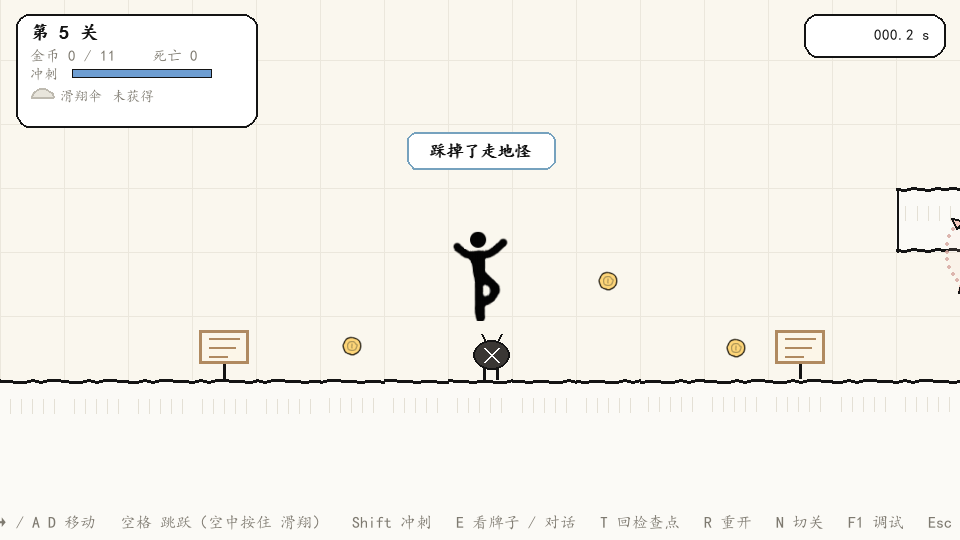
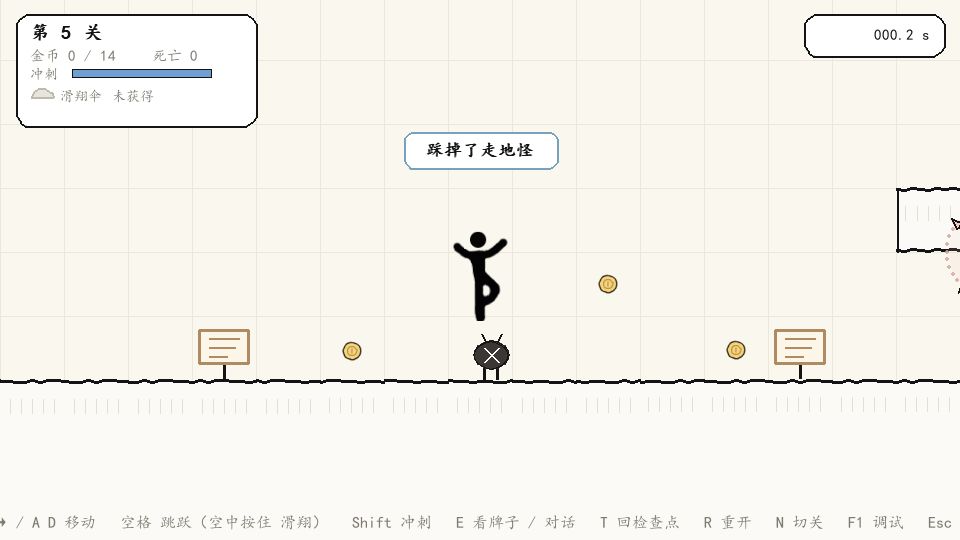
fix(M7.3): 篝火不触发 + 滑翔段改成"跳满再滑"的软引导
1) 篝火点不亮（玩家实测）：检查点列表按地图行序排，水池前那盏在天上第 8 行、
   荡锤前那盏贴地第 10 行，右边那盏索引反而更小；而点亮规则是"只允许往关卡
   后面点亮"（idx > checkpoint_index），于是点亮荡锤前那盏之后，水池前那盏
   永远点不亮。改成按列排序（= 跑到的先后），日志里的"第 N 个篝火"也顺带对了。

2) 滑翔伞从第 7 行抬到第 6 行：判定区底边 448 = 岸面往上 2 格 = 跳满时的头顶。
   原来离岸面只有 64px，点一下跳就捡到，玩家学会了"跳一下"，然后在坑边被水
   吞掉——他根本不知道自己需要跳满。现在伞本身就是那个动作的说明书。

3) 水面金币改软引导：删掉原来"只能松手往下掉才够得到"的那枚，换成一排顺着
   轨迹的金币——起跳点正上方一枚、伞后两枚、对岸落点一枚（11 → 14 枚）。

4) 生成器新增两条硬检查：伞必须挂在"站立够不到、跳满够得到"的区间；水面上的
   金币必须落在滑翔轨迹的身体带里（用真实参数把抛物线 + 滑翔直线算出来比）。

5) 顺手修 load_level 没调 _reset_stats()：换关会带着上一关的死亡定格（开头
   冻 0.35s）和旧检查点，_respawn 甚至会把角色传回上一关的坐标。

自检 280 → 286 项双环境全绿；--smoke-m7 第 4 张改成停在碰到伞之前，另加一张
滑翔中的画面（docs/m7_glide.png）。

diff --git a/tools/gen_l5.py b/tools/gen_l5.py
@@ -108,11 +108,15 @@ def build():
     put(28, 10, "S")          # 告示牌 3：讲荡锤（放在锤子左边）
     put(30, 8, "H")
 
-    # ---- 滑翔段：伞浮在水面上方，跳出去才够得到 ----
+    # ---- 滑翔段：伞吊在"跳满"的那个高度上，而不是贴着水面 ----
     for c in range(57, 62):
         for r in range(9, H):
             put(c, r, "~")
-    put(57, 7, "G")
+    # 伞原来放在第 7 行（判定区底边离岸面 64px），点一下跳就拿到了，
+    # 于是玩家学会了"跳一下"，然后在坑边被水流吞掉——因为他根本不知道自己
+    # 需要跳满。现在抬到第 6 行：判定区底边 = 岸面往上 128px，正好是跳满时的
+    # 头顶位置。想拿伞就必须按住空格跳最高，而这个动作正是滑过水池需要的。
+    put(57, 6, "G")
 
     # ---- 终点与封口 ----
     put(64, 8, "F")
@@ -128,8 +132,15 @@ def build():
     # ---- 金币 ----
     # 14 / 18 列原本是地面金币，现在正好落在走地怪的巡逻线上（会被怪踩过去），
     # 挪到巡逻段两头：玩家要拿就得在那里起跳——那两处是刀片够不到的。
+    #
+    # 滑翔段的金币是"软引导"：起跳点正上方一枚（第 56 列两枚叠成一个向上的
+    # 指示），伞后面顺着下滑轨迹摆两枚，对岸落点一枚。玩家跟着金币走，走的
+    # 就是"跳满 → 一直按住空格滑过去"这条唯一能过水池的路线。
+    # 原来 59 列那枚在水面上方 64px，比滑翔轨迹低一截：想去够只能松开空格
+    # 往下掉，那不是引导，是拿金币骗人跳水。
     for c, r in ((6, 10), (10, 9), (12, 10), (19, 9), (26, 10),
-                 (33, 10), (40, 8), (46, 8), (52, 8), (56, 8), (59, 8)):
+                 (33, 10), (40, 8), (46, 8), (52, 8),
+                 (56, 8), (56, 6), (58, 7), (60, 7), (62, 8)):
         put(c, r, "c")
 
     return grid, floor
@@ -268,27 +279,41 @@ def check(grid, floor):
                     problems.append(u"荡锤 (%d,%d) 上方没有横梁，锤子像凭空吊着"
                                     % (c + 1, r + 1))
 
-    # 8) 滑翔伞：不在实心里，且底部离最近站立面 ≤2 格（跳得到）
+    # 8) 滑翔伞：必须挂在"跳满才够到"的高度上
+    #    不直接量像素高度，而是拿站立头顶和跳满时的头顶当上下界：
+    #    低了就退化成"点一下跳就拿到"（玩家学不会他真正需要的动作），
+    #    高了就变成"这关拿不到伞"。两头都是设计事故。
     for r in range(H):
         for c in range(W):
             if grid[r][c] != "G":
                 continue
-            if grid[r][c] == "#":
-                problems.append(u"滑翔伞 (%d,%d) 埋在实心里" % (c + 1, r + 1))
             support = None
             for cc in (c - 1, c, c + 1):
+                # 伞悬在水面上，脚下那格没有地面，落点取左右两格里最高的那个
                 if 0 <= cc < W:
                     f = floor_row(cc)
                     if f is not None and f > r:
                         if support is None or f < support:
                             support = f
-            bottom = (r + 1) * TILE
             if support is None:
                 problems.append(u"滑翔伞 (%d,%d) 下方没有任何落点" % (c + 1, r + 1))
-            elif support * TILE - bottom > 2 * TILE:
+                continue
+            bottom = (r + 1) * TILE
+            ground = support * TILE
+            stand_top = ground - PLAYER_H          # 站着时的头顶
+            apex_top = stand_top - JUMP_RISE       # 跳满时的头顶
+            # 下界：不能"随便点一下就够到"
+            if bottom > stand_top - 0.4 * JUMP_RISE:
                 problems.append(
-                    u"滑翔伞 (%d,%d) 离地 %.0fpx，跳不到（跳高 %.0fpx）"
-                    % (c + 1, r + 1, support * TILE - bottom, JUMP_RISE))
+                    u"滑翔伞 (%d,%d) 判定区底边 %d 离站立头顶 %d 太近："
+                    u"点一下跳就拿到了，玩家学不会「跳满再滑」"
+                    % (c + 1, r + 1, bottom, stand_top))
+            # 上界：跳满时身体要进得去（留 6px 余量，别做成像素级完美）
+            if bottom < apex_top + 6:
+                problems.append(
+                    u"滑翔伞 (%d,%d) 判定区底边 %d 高过跳满时的头顶 %d："
+                    u"这关根本拿不到伞"
+                    % (c + 1, r + 1, bottom, apex_top))
 
     # 9) 出生点与终点
     spawns = sum(line.count("P") for line in rows)
@@ -399,6 +424,51 @@ def check(grid, floor):
                 u"走地怪 %d-%d 列一个来回要 %.1f 秒，玩家只能站着等"
                 % (c0 + 1, c1 + 1, cycle))
 
+    # 15) 水面上的金币必须躺在滑翔轨迹上。
+    #     这一条是被玩家怼出来的：原来水面上方 64px 有一枚金币，比滑翔轨迹
+    #     低一截——想去够只能松开空格往下掉，那不是引导，是拿金币骗人跳水。
+    #     判据用真实参数把轨迹算一遍：从岸沿起跳、跳满、然后一直按住空格，
+    #     看金币格子有没有和"身体扫过的那条带子"相交。差一格也算不合格。
+    t_apex = JUMP_V / (G_UP * HOLD)
+    run_reach = RUN_SPEED * t_apex
+
+    def body_at(dx):
+        """离岸沿 dx 时身体的 (top, bottom)，以起跳岸面为 0、向上为负。"""
+        if dx <= run_reach:
+            t = dx / RUN_SPEED
+            bottom = -(JUMP_V * t - 0.5 * G_UP * HOLD * t * t)
+        else:
+            bottom = -JUMP_RISE + GLIDE_FALL * (dx - run_reach) / GLIDE_SPEED
+        return bottom - PLAYER_H, bottom
+
+    for r in range(H):
+        for c in range(W):
+            if grid[r][c] != "c" or floor_row(c) is not None:
+                continue                    # 岸上的金币，走过去就拿到，不查
+            g0 = c
+            while g0 - 1 >= 0 and floor_row(g0 - 1) is None:
+                g0 -= 1
+            if g0 == 0:
+                continue
+            ledge = floor_row(g0 - 1)
+            x_take = g0 * TILE
+            cx0, cx1 = c * TILE, (c + 1) * TILE
+            hit = False
+            dx = 0.0
+            while dx <= 400.0:
+                # 身体的水平范围 [x_take+dx-W, x_take+dx] 与金币格子相交？
+                if x_take + dx > cx0 and x_take + dx - PLAYER_W < cx1:
+                    top, bottom = body_at(dx)
+                    if (ledge * TILE + bottom > r * TILE
+                            and ledge * TILE + top < (r + 1) * TILE):
+                        hit = True
+                        break
+                dx += 2.0
+            if not hit:
+                problems.append(
+                    u"水面金币 (%d,%d) 不在滑翔轨迹上：玩家为了够它只能松手往下掉"
+                    % (c + 1, r + 1))
+
     return problems, widest
 
 
@@ -463,8 +533,8 @@ def main():
         return 1
 
     print(u"检查全部通过：矩形、图例、坑宽、台阶、走地怪落脚与巡逻周期、"
-          u"刺轮位置与下方巡逻联动、吊点、伞可达性、出生/终点、滑翔射程、"
-          u"篝火落脚与重生点安全性")
+          u"刺轮位置与下方巡逻联动、吊点、伞的悬挂高度、出生/终点、滑翔射程、"
+          u"水面金币是否在滑翔轨迹上、篝火落脚与重生点安全性")
 
     path = os.path.join(ROOT, "levels", "l5.txt")
     if "--write" in sys.argv:

diff --git a/selftest.py b/selftest.py
@@ -1901,6 +1901,11 @@ def test_m7_parse():
     _check(u"2 个篝火", len(w.checkpoints) == 2,
            u"%d 个：%s" % (len(w.checkpoints),
                           [c["col"] for c in w.checkpoints]))
+    # 索引必须等于"跑到的先后"。老版本按地图行序排：水池前那盏在天上第 8 行、
+    # 荡锤前那盏贴地第 10 行，于是右边那盏排到了左边那盏前面，点亮顺序一乱，
+    # "只允许往关卡后面点亮"的规则就把水池前那盏永久封死了。
+    cols = [c["col"] for c in w.checkpoints]
+    _check(u"篝火按列升序排列（= 跑到的先后）", cols == sorted(cols), u"%s" % cols)
 
     # 刺轮是"禁跳区"，玩家在它下面本来就没有跳的需求；必须有一只走地怪
     # 把这条道占住，刀片才有意义。
@@ -1948,11 +1953,10 @@ def test_m7_parse():
     _check(u"伞悬在岸面上方 1~2 格",
            ledge is not None and 0 < ledge - it["rect"].bottom <= 2 * config.TILE,
            u"伞底边 %d，岸面 %s" % (it["rect"].bottom, ledge))
-    _check(u"伞脚下一格是水（没地方站）",
-           w.cell_at_px(it["rect"].centerx,
-                        it["rect"].bottom + config.TILE) == "~",
-           w.cell_at_px(it["rect"].centerx,
-                        it["rect"].bottom + config.TILE))
+    _check(u"伞悬在水面上（脚下没有落脚点）",
+           w.ground_y_below(it["rect"].centerx, it["rect"].bottom + 2) is None,
+           u"脚下地面 %s"
+           % w.ground_y_below(it["rect"].centerx, it["rect"].bottom + 2))
     # 站在岸边（最后一格）够不到：判定区在水的正上方，只靠走是拿不到的
     stand = pygame.Rect(col * config.TILE - player.Player.WIDTH,
                         (ledge or 0) - player.Player.HEIGHT,
@@ -2082,6 +2086,37 @@ def test_m7_air_glider(app):
         _check(u"l5 可加载", False, scene.load_error)
         return
 
+    # 伞挂在"跳满才够到"的高度上：判定区底边离岸面正好 2 格。
+    # 这条是玩家的反馈——原来挂在 1 格，点一下跳就拿到了，于是玩家学会了
+    # "跳一下"，然后在坑边被水吞掉：他根本不知道自己需要跳满。
+    it = w.gliders[0]
+    _check(u"伞的判定区底边在岸面往上 2 格",
+           it["rect"].bottom == 9 * config.TILE - 2 * config.TILE,
+           u"底边 %d，岸面 %d" % (it["rect"].bottom, 9 * config.TILE))
+
+    # 低跳拿不到：按住 4 帧就松手（JUMP_CUT 会切掉上升速度），跳到一半
+    scene.player.teleport(56 * config.TILE - player.Player.WIDTH,
+                          9 * config.TILE - player.Player.HEIGHT)
+    scene.override_axis = 1.0
+    scene.input.jump_held = True
+    scene.input.jump_pressed = True
+    for i in range(30):
+        if i == 4:
+            scene.input.jump_held = False
+            scene.input.jump_released = True
+        scene.update(DT)
+    _check(u"点一下跳（低跳）拿不到伞", not scene.player.has_glider,
+           u"has_glider=%s y=%.0f" % (scene.player.has_glider, scene.player.y))
+
+    # 低跳这一趟大概率已经掉进水里记了一次死亡，重新载一次关，
+    # 后面的"一跳到底"要在干净的计数上跑。
+    scene.input.jump_held = False
+    scene.load_level(L5)
+    w = scene.world
+    if w is None:
+        _check(u"l5 可加载", False, scene.load_error)
+        return
+
     # 从岸上跳出去：伞在水面上方，必须靠跳（而不是走过去）拿
     scene.player.teleport(56 * config.TILE - player.Player.WIDTH,
                           9 * config.TILE - player.Player.HEIGHT)
@@ -2187,6 +2222,29 @@ def test_m7_checkpoint(app):
     _run(scene, 90)
     _check(u"站在篝火旁边不会被动到", scene.deaths == 1,
            u"死亡 %d 次：「%s」" % (scene.deaths, scene.last_death_cause))
+
+    # ---- 第二盏（水池前）必须也能点亮 ----
+    # 这就是玩家报的那个"滑翔伞前的火堆不触发"：篝火列表按地图行序排，
+    # 水池前那盏（更靠右）的索引反而更小，点亮荡锤前那盏之后就再也点不亮它。
+    cp2 = cps[1]
+    scene.player.teleport(cp2["spawn"][0], cp2["spawn"][1])
+    _run(scene, 2)
+    _check(u"水池前那盏篝火也能点亮", cp2["active"],
+           u"active=%s，索引 %d" % (cp2["active"], scene.checkpoint_index))
+    _check(u"点亮后重生点挪到水池前", scene.checkpoint == cp2["spawn"],
+           u"checkpoint=%s，期望 %s" % (scene.checkpoint, cp2["spawn"]))
+
+    deaths_before = scene.deaths
+    scene.invuln = 0.0
+    scene.player.teleport(59 * config.TILE, 9 * config.TILE - player.Player.HEIGHT)
+    frames = 0
+    while scene.deaths == deaths_before and frames < 200:
+        scene.update(DT)
+        frames += 1
+    _run(scene, int(config.DEATH_FREEZE / DT) + 3)
+    _check(u"掉进水池会回水池前的篝火", 
+           abs(scene.player.x - cp2["spawn"][0]) < 1.0,
+           u"x=%.0f，篝火 x=%d" % (scene.player.x, cp2["spawn"][0]))
 
 
 # ---------------------------------------------------------------- 入口

diff --git a/main.py b/main.py
@@ -597,21 +597,35 @@ def main():
               % (ham.px, ham.py, bx, by, math.degrees(ham.angle)))
         print(" 截图   :", save_screenshot(screen, "m7_hammer.png"))
 
-        # 4) 半空中的伞：从岸上跳出去，靠"跳"而不是"走"拿到它
+        # 4) 半空中的伞：伞挂在"跳满"的那个高度上，金币一路引到伞边。
+        #    这一张要停在**碰到伞之前**——捡起来之后伞就没了，画面里只剩人
+        #    在空中，看不出"伞在这个高度"这件事。
         scene.invuln = 0.0
         p.teleport(56 * config.TILE - W, 9 * config.TILE - H)
         p.has_glider = False
+        for it in scene.world.gliders:
+            it["taken"] = False
         scene.camera.snap_to(p.rect)
         scene.override_axis = 1.0
         scene.input.jump_held = True
         scene.input.jump_pressed = True
-        for _ in range(46):
+        for _ in range(15):
             app.scenes.update(config.FIXED_DT)
         app.scenes.draw(screen)
         pygame.display.flip()
-        print(u" 空中道具 : 伞=%s 滑翔中=%s  x=%.0f（水坑 57~61 列）vy=%.0f"
-              % (p.has_glider, p.gliding, p.x, p.vy))
+        print(u" 空中道具 : 起跳弧顶点附近 y=%.0f（站立时 %d，伞底边 %d）"
+              % (p.y, 9 * config.TILE - H,
+                 scene.world.gliders[0]["rect"].bottom))
         print(" 截图   :", save_screenshot(screen, "m7_glider.png"))
+
+        # 接着跑完这一段，确认伞拿得到、也滑得过去
+        for _ in range(40):
+            app.scenes.update(config.FIXED_DT)
+        app.scenes.draw(screen)
+        pygame.display.flip()
+        print(u" 滑翔     : 伞=%s 滑翔中=%s x=%.0f（水坑 57~61 列）vy=%.0f"
+              % (p.has_glider, p.gliding, p.x, p.vy))
+        print(" 截图   :", save_screenshot(screen, "m7_glide.png"))
         pygame.quit()
         return 0
 

diff --git a/world.py b/world.py
@@ -691,9 +691,15 @@ class World(object):
                                              tile - 8, 8))
 
         # ---- 篝火检查点 ----
+        # 必须按"跑到它的先后"（列坐标）排，不能按地图文件的行序。
+        # 解析器是自上而下扫地图的：第 5 关水池前那盏在天空开阔的第 8 行，
+        # 荡锤前那盏在贴地的第 10 行，于是列表里右边那盏排在左边那盏前面。
+        # 而点亮规则是"只允许往关卡后面走"（idx > checkpoint_index），
+        # 索引一颠倒，点亮荡锤前那盏之后，水池前那盏就永远点不亮了——
+        # 玩家要等死了才发现自己没存上档。
         bw, bh = config.CHECKPOINT_BOX
         self.checkpoints = []
-        for c, r in parsed.checkpoints:
+        for c, r in sorted(parsed.checkpoints):
             self.checkpoints.append({
                 "col": c, "row": r,
                 "rect": pygame.Rect(c * tile + (tile - bw) // 2,

diff --git a/scenes.py b/scenes.py
@@ -389,6 +389,10 @@ class GameScene(Scene):
         self.goal_reached = False
         self.load_error = ""
         self.level_path = path
+        # 换关 = 从头开始：死亡定格、检查点、统计都得清掉。少了这一句，
+        # 上一关死在一半时切关，新关会带着旧关的死亡定格（开头冻半秒）
+        # 和旧关的检查点开跑——_respawn 甚至会把角色传回上一关的坐标。
+        self._reset_stats()
         try:
             self.world = world.World.load(path)
         except world.LevelError as exc:

diff --git a/README.md b/README.md
@@ -1334,6 +1334,7 @@ README 是否需要更新：
 - [x] M1～M5 全部完成并通过试玩：场景系统、手感（可变跳跃/土狼时间/跳跃缓冲/冲刺）、角色 8 帧动画、第一关、机关关（篝火/地刺/移动平台/弹跳板/单向平台）、滑翔伞与滑翔关。
 - [x] **M6 完成**：`enemy.py`（蝙蝠巡逻、UFO 投石、落石三态、天花板裂缝）、`dialog.py`（折行排版 + 暂停式对话框）、告示牌 `S` / NPC `N` / 蝙蝠 `B` / UFO `U` / 落石点 `R`，第 4 关 `l4.txt`（60×14）与 `tools/gen_l4.py`；自检 220 项双环境全绿。
 - [x] **M7 完成**：`enemy.py` 新增 `Walker`（可踩死）/ `Rotor`（旋转刺轮）/ `Pendulum`（荡锤）、新格子 `Z` `X` `H`、踩踏击杀与 `stomp_bounce`、`mechanism_hit`、第 5 关 `l5.txt`（66×14）与 `tools/gen_l5.py`（十条硬检查）；滑翔伞支持写在半空（`G` 的竖条判定 + 生成器可达性检查）；自检 280 项双环境全绿。
+- [x] **M7.3 试玩修正**：① 篝火索引按**列**排序（原来按地图行序，水池前那盏排到荡锤前那盏前面，"只允许往后点亮"的规则把它永久封死——玩家报的"滑翔伞前的火堆不触发"）；② 滑翔伞从贴水面的第 7 行抬到**第 6 行**（判定区底边 = 岸面往上 2 格 = 跳满时的头顶），配一排顺着滑翔轨迹摆的金币做软引导，删掉原来那枚"只能跳水去够"的水面金币；生成器新增"伞必须挂在跳满才够到的高度"与"水面金币必须在滑翔轨迹上"两条硬检查；`load_level` 补 `_reset_stats()`（换关不再带着上一关的死亡定格和检查点）；自检 286 项双环境全绿。
 
 ### 推荐下一步
 
@@ -1525,3 +1526,4 @@ Thumbs.db
 | 2026-11-24 | **M7 完成（走地怪 · 旋转刺轮 · 荡锤 · 空中道具）**：`enemy.py` 新增 `Walker`（连续 `Z` 合并巡逻段、墨团子造型、踩踏后闪烁 0.5s 消失）、`Rotor`（四臂十字 1.4rad/s，沿臂每 7px 采样小圆判定 + 淡红扫掠圈）、`Pendulum`（正弦摆，摆长 148、±54°、`H` 格顶边为吊点且上方必须是横梁）；`world` 新增 `Z`/`X`/`H` 三种格子与 `_walker_runs`、`stomp()`、`mechanism_hit()`；`player` 新增 `stomp_bounce()`（-560，不占弹跳板冷却）与 `stomp_count`；`GameScene` 死亡顺序改为 危险格 → 机关 → 踩踏 → 敌人 → 篝火 → 金币 → 终点（踩踏必须判在"被敌人撞到"之前）；新增第 5 关 `levels/l5.txt`（66×14：走地怪 / 刺轮 / 低矮通道必踩怪 / 荡锤 / 水面上方的滑翔伞 + 5 格水坑）与`tools/gen_l5.py`（坑宽/台阶/落脚/吊点/伞可达性/滑翔射程十条检查）、`main.py --smoke-m7`。自检 220 → 266 项双环境全绿；l5 纯渲染 4.00ms/帧（海龟环境余量 4.2 倍），自动驾驶 13.4 秒通关 0 死亡，滑翔段 1.4 秒过坑 |
 | 2026-11-24 | **M7.1 修正：旋转刺轮原来根本过不去**。用户实测反馈「根本过不去」，查下来不是手速问题，是几何问题：轴心原本在 `X` 格**格心**（离站立头顶 26px），角色横穿 160px 时相对轴心转过 **144°**，而四臂每 90° 一条 —— 穷举 360 个起始相位，顺时针 0%、逆时针 0%，一个都过不去；跑过去那 0.53 秒里臂只转 43°，等于人自己绕着风扇转了一圈。改法：轴心从格心抬到**格顶边**（吊在横梁下）、臂长 58 → 42，臂端 626 < 站立头顶 634，留 8px 余量 —— 机关语义从「等窗口硬穿」改成**「禁跳区」**：贴地横跑绝对安全，一起跳就进刀口。同时按用户建议改成**逆时针**（臂在画面底部与前进同向，相对速度 300−67 而非 300+67）。`tools/gen_l5.py` 新增硬检查「臂端 < 站立头顶 + 上方必须有横梁」；告示牌重排为 3 块（走地怪 / 刀片 / 荡锤），刀片那块放在刺轮**左边**，原来在右边，玩家读完已经过完机关了。自检 266 → 270 项双环境全绿；自动驾驶 13.4s 通关 0 死亡，刺轮段直接跑过 |
 | 2026-11-24 | **M7.2 联动段与篝火**（按用户建议）：① 第二只走地怪的巡逻段从 22~24 列改到 **14~19 列**，横穿刺轮正下方——刀片禁跳、黑团子堵路，两条约束叠在一起，"跳过去"这条最顺手的解法被拿掉；生成器新增两条硬检查：**刺轮下方必须有走地怪**（否则刀片退化成装饰）、**巡逻段两头至少一头在扫掠圈外 ≥20px**（否则玩家没地方落脚），外加巡逻段 ≤6 格、一个来回 ≤12 秒（超了就成罚站）。低矮通道从此只剩"压低天花板"的节奏作用，通道里那只怪撤掉了。② 第 5 关补两处 **篝火**：第 27 列（通道出口，锤子扫不到）、第 55 列（高台尽头、跳坑之前）——这一关 66 格却一个存档点都没有，死一次要从头再跑半张图。③ 生成器新增"篝火脚下必须是地面 + **重生点不能在机关扫掠范围内**"的检查：写的时候差点把篝火放在第 28 列，那一列的重生点 1811 正好落在荡锤摆幅（扫到 1832 起）内侧，复活即被砸，比没有存档点更糟。④ 金币 14/18 列原本压在巡逻线上，挪到 12/19 列（两头正是刀片够不着的位置）。自检 270 → 280 项双环境全绿 |
+| 2026-11-24 | **M7.3 试玩修正（篝火不触发 + 滑翔段的引导）**。① **篝火点不亮**：玩家报「滑翔伞前那个火堆不触发」。真因在 `world` 的检查点列表——它按地图**行序**排（解析器自上而下扫），水池前那盏在天上第 8 行、荡锤前那盏贴地第 10 行，于是右边那盏索引反而更小；而点亮规则是"只允许往关卡后面点亮"（`idx > checkpoint_index`），点亮荡锤前那盏之后，水池前那盏就永远点不亮了。改成按**列**排序（= 玩家跑到的先后），顺带修正日志里"第 N 个篝火"的编号。② **滑翔段重做**：原来伞挂第 7 行（离岸面 64px），点一下跳就捡到，玩家学会了"跳一下"，然后在坑边被水吞掉——他不知道自己需要跳满。伞抬到**第 6 行**（判定区底边 448 = 岸面往上 2 格 = 跳满时的头顶），并把水面那枚"只能松手往下掉才够得到"的金币删掉，改成一排顺着轨迹的金币：起跳点正上方一枚 + 伞后两枚 + 对岸落点一枚（11 → 14 枚），玩家跟着金币走，走的就是"跳满 → 一直按住空格滑过去"这条唯一解。生成器新增两条硬检查：**伞必须挂在"站立够不到、跳满够得到"的高度区间**（低了退化成点跳、高了拿不到伞）、**水面上的金币必须落在滑翔轨迹的身体带里**（差一格就报错）。③ 顺手修 `load_level` 未调 `_reset_stats()`：换关会带着上一关的死亡定格（开头冻 0.35s）和旧检查点。自检 280 → 286 项双环境全绿 |
